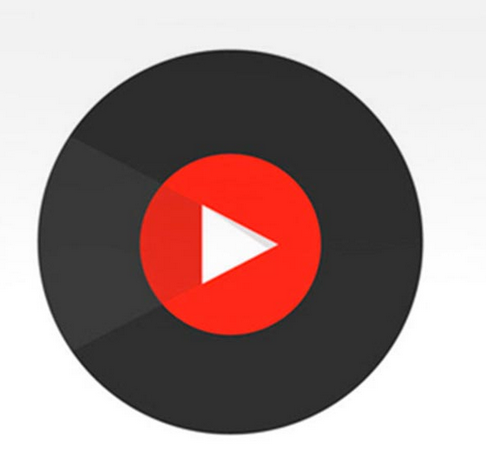
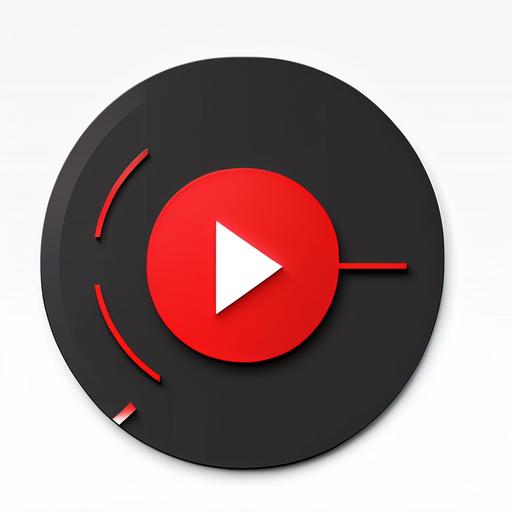
yt-dlx @2.0.2

diff --git a/scripts/quick.spec.ts b/scripts/quick.spec.ts
@@ -110,7 +110,7 @@ async function TypeTube(
       retries: 4,
     };
     const browser = await puppeteer.launch({
-      headless: false,
+      headless: true,
       userDataDir: "other",
       args: [
         "--incognito",
@@ -563,6 +563,16 @@ async function TypeTube(
       screenshot: false,
       query: "Emptiness",
       filter: "Search",
+    });
+    if (FnTube) console.log(colors.green("@pass"), FnTube);
+    else console.error(colors.red("@fail"), FnTube);
+
+    console.log(colors.blue("@test:"), "InfoPlaylist");
+    console.log(colors.blue("@screenshot:"), false);
+    FnTube = await TypeTube({
+      screenshot: false,
+      filter: "InfoPlaylist",
+      query: "https://www.youtube.com/playlist?list=PLC4C864B7AFA8F67C",
     });
     if (FnTube) console.log(colors.green("@pass"), FnTube);
     else console.error(colors.red("@fail"), FnTube);

diff --git a/README.md b/README.md
@@ -1,3 +1,7 @@
+<div style="text-align: center;">
+    <img src="https://i.postimg.cc/sXx2CgB7/yt-dlx-removebg.png" alt="YT-DLX Logo">
+</div>
+
 # YT-DLX: Elevate Your Video Downloading & Streaming Experience
 
 [![npm version](https://img.shields.io/npm/v/yt-dlx.svg)](https://www.npmjs.com/package/yt-dlx)
